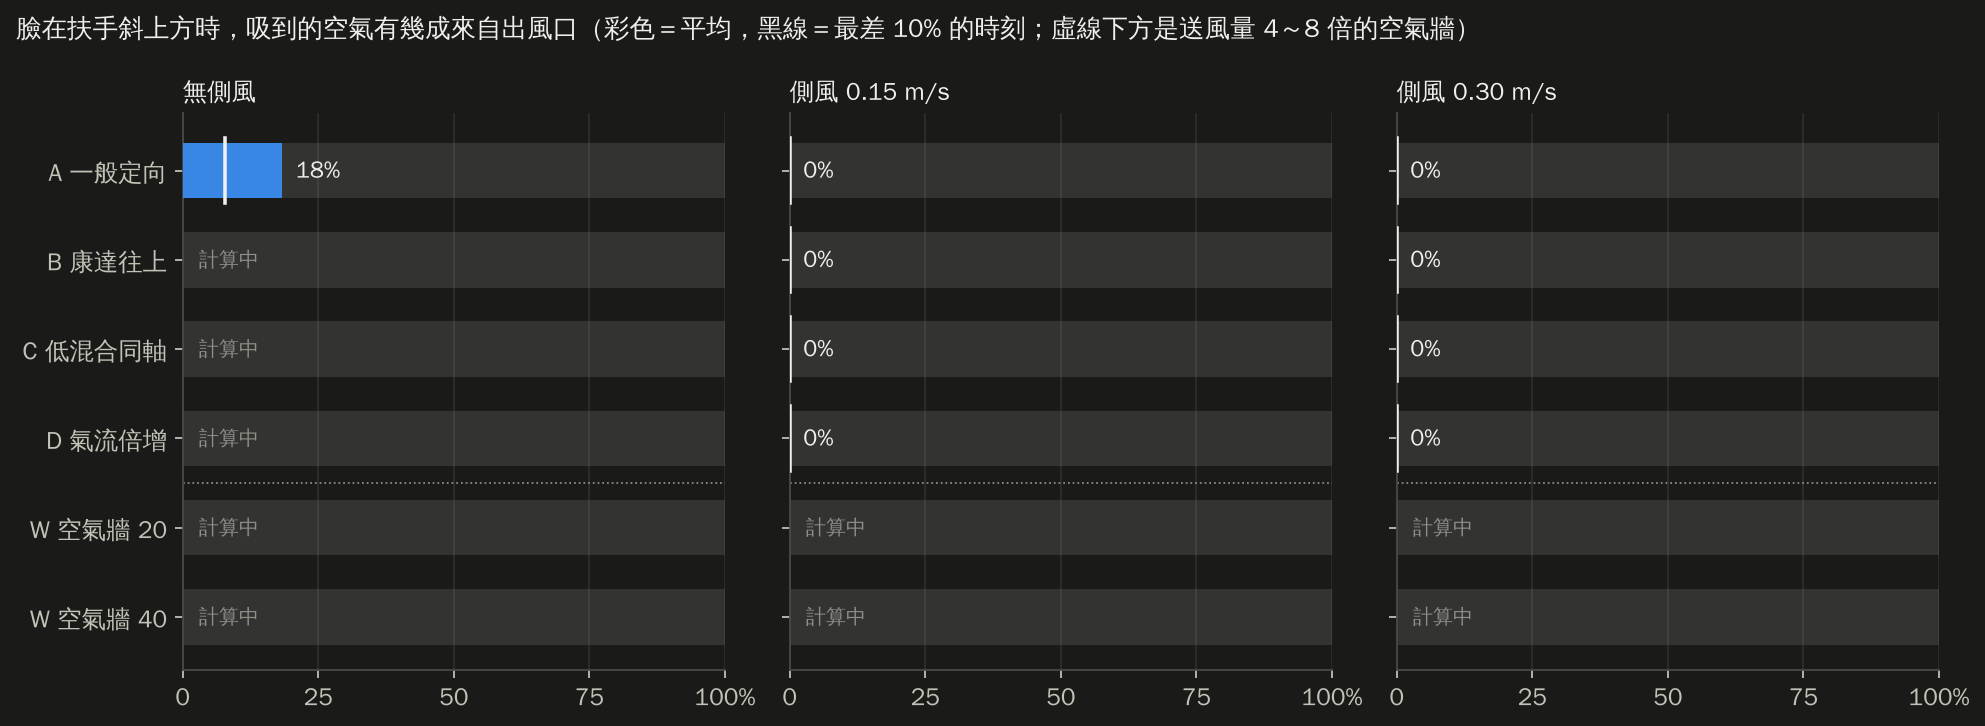
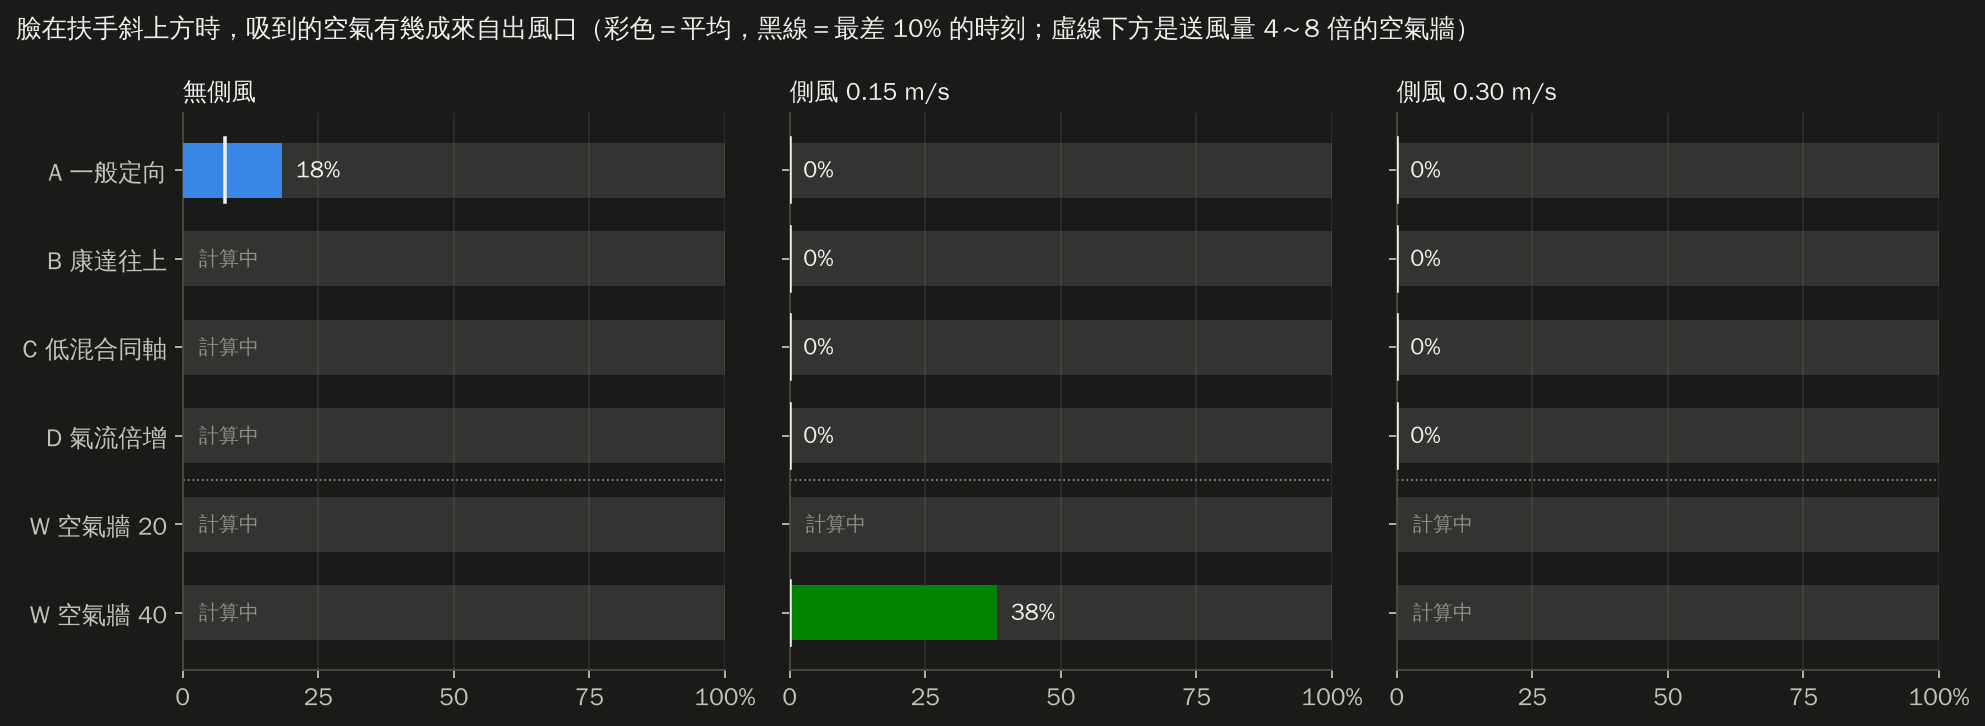
Face-above: first air-wall result (W40, crossflow 0.15: 38%)
Claude-Session: https://claude.ai/code/session_01CLMVR9XzZXdsSKCMSLUbBG

diff --git a/stairwell-airflow-sim/report/index.html b/stairwell-airflow-sim/report/index.html
@@ -173,7 +173,7 @@ footer { margin-top: 48px; padding-top: 20px; border-top: 1px solid var(--line);
   <h1>扶手送風模擬報告</h1>
   <p class="question">一根貫穿整棟樓的扶手，平時能不能流通、淨化空氣？火災時能幫逃生者做到什麼？用電腦模擬一項一項檢查。</p>
   <div class="meta"><span>日期 <b>2026-10-19</b></span><span>專案 <b>長庚大學工業設計學系 林煜宸</b></span><span>模擬與撰寫 <b>Claude（AI）</b></span></div>
-  <div class="progress" role="status"><p>臉在斜上方的出風口重算：已完成 9/18 組，整體約 48%，預計台灣時間 <b>23:59</b> 前後完成</p><div class="bar" aria-hidden="true"><span style="width:47.6%"></span></div><div class="chips"><span class="chip chip-run"><b>B 康達往上</b>・無側風　9%</span><span class="chip chip-done"><b>B 康達往上</b>・側風 0.15　完成</span><span class="chip chip-done"><b>B 康達往上</b>・側風 0.30　完成</span><span class="chip chip-done"><b>A 一般</b>・側風 0.30　完成</span><span class="chip chip-done"><b>C 低混合</b>・側風 0.30　完成</span><span class="chip chip-done"><b>D 倍增</b>・側風 0.30　完成</span><span class="chip chip-done"><b>A 一般</b>・無側風　完成</span><span class="chip chip-done"><b>A 一般</b>・側風 0.15　完成</span><span class="chip chip-wait"><b>D 倍增</b>・無側風　排隊中</span><span class="chip chip-done"><b>D 倍增</b>・側風 0.15　完成</span><span class="chip chip-done"><b>C 低混合</b>・側風 0.15　完成</span><span class="chip chip-wait"><b>C 低混合</b>・無側風　排隊中</span><span class="chip chip-run"><b>W 空氣牆 40</b>・側風 0.15　54%</span><span class="chip chip-run"><b>W 空氣牆 20</b>・側風 0.15　8%</span><span class="chip chip-run"><b>W 空氣牆 40</b>・側風 0.30　0%</span><span class="chip chip-wait"><b>W 空氣牆 20</b>・側風 0.30　排隊中</span><span class="chip chip-wait"><b>W 空氣牆 40</b>・無側風　排隊中</span><span class="chip chip-wait"><b>W 空氣牆 20</b>・無側風　排隊中</span></div><p class="muted small">進度在每次更新報告時重新計算（最後更新：台灣時間 10/19 22:53）。</p></div>
+  <div class="progress" role="status"><p>臉在斜上方的出風口重算：已完成 10/18 組，整體約 55%，預計台灣時間 <b>23:58</b> 前後完成</p><div class="bar" aria-hidden="true"><span style="width:54.6%"></span></div><div class="chips"><span class="chip chip-run"><b>B 康達往上</b>・無側風　21%</span><span class="chip chip-done"><b>B 康達往上</b>・側風 0.15　完成</span><span class="chip chip-done"><b>B 康達往上</b>・側風 0.30　完成</span><span class="chip chip-done"><b>A 一般</b>・側風 0.30　完成</span><span class="chip chip-done"><b>C 低混合</b>・側風 0.30　完成</span><span class="chip chip-done"><b>D 倍增</b>・側風 0.30　完成</span><span class="chip chip-done"><b>A 一般</b>・無側風　完成</span><span class="chip chip-done"><b>A 一般</b>・側風 0.15　完成</span><span class="chip chip-run"><b>D 倍增</b>・無側風　0%</span><span class="chip chip-done"><b>D 倍增</b>・側風 0.15　完成</span><span class="chip chip-done"><b>C 低混合</b>・側風 0.15　完成</span><span class="chip chip-wait"><b>C 低混合</b>・無側風　排隊中</span><span class="chip chip-done"><b>W 空氣牆 40</b>・側風 0.15　完成</span><span class="chip chip-run"><b>W 空氣牆 20</b>・側風 0.15　72%</span><span class="chip chip-run"><b>W 空氣牆 40</b>・側風 0.30　32%</span><span class="chip chip-wait"><b>W 空氣牆 20</b>・側風 0.30　排隊中</span><span class="chip chip-wait"><b>W 空氣牆 40</b>・無側風　排隊中</span><span class="chip chip-wait"><b>W 空氣牆 20</b>・無側風　排隊中</span></div><p class="muted small">進度在每次更新報告時重新計算（最後更新：台灣時間 10/19 23:01）。</p></div>
 </header>
 <nav class="toc" aria-label="章節">
   <a href="#summary">一頁看懂</a><a href="#method">怎麼測的</a><a href="#daily">平時：新風帶</a><a href="#fire">火災：守護路線</a>
@@ -445,21 +445,21 @@ footer { margin-top: 48px; padding-top: 20px; border-top: 1px solid var(--line);
 
 <section id="nozzle">
   <h2><span class="no">04</span>四種出風口比一比（臉在扶手斜上方）</h2>
-  <p class="oneliner">臉在扶手斜上方時（已完成 9/18 組），目前口鼻乾淨空氣最高的是 A 一般定向（無側風）：18%。</p>
+  <p class="oneliner">臉在扶手斜上方時（已完成 10/18 組），目前口鼻乾淨空氣最高的是 W 空氣牆 40 L/s/m（側風 0.15）：38%。</p>
   <figure class="fig render"><img class="img-any" src="assets/render_nozzles.webp" alt="四種扶手側面出風口形式比較" loading="lazy"><figcaption>四種出風口的造型構想（設計渲染圖）。圖中文字是設計構想，實際結果以下方模擬為準。</figcaption></figure>
   <figure class="fig"><img class="img-light" src="assets/s2f_saf_bars.png" alt="臉在斜上方時四種出風口的乾淨空氣比例" loading="lazy"><img class="img-dark" src="assets/s2f_saf_bars_dark.png" alt="臉在斜上方時四種出風口的乾淨空氣比例" loading="lazy"><figcaption>每條橫條代表 100% 的吸入空氣，彩色部分是來自出風口的乾淨空氣。黑色短線是最差 10% 的時刻。</figcaption></figure>
   <div class="points prose">
 <p><b>為什麼重算：</b>人扶著內側扶手下樓時，臉在扶手的<b>斜上方</b>，不是正前方。這組把口鼻放在出風口往樓梯側 28 cm、往上 35 cm（距離約 45 cm、仰角約 51°）；A、C、D 出風口改成朝向口鼻，B 改用藏在底面、往上轉的康達出風口。每公尺送風量都是 5 L/s，網格 1.5 mm。<span class="tag tag-sim">模擬結果</span></p>
-<div class="table-wrap"><table><thead><tr><th scope="col">出風口</th><th scope="col">無側風</th><th scope="col">側風 0.15</th><th scope="col">側風 0.30</th></tr></thead><tbody><tr><th scope="row">A 一般定向</th><td class="num">18%</td><td class="num">0%</td><td class="num">0%</td></tr><tr><th scope="row">B 康達往上</th><td class="num">計算中</td><td class="num">0%</td><td class="num">0%</td></tr><tr><th scope="row">C 低混合同軸</th><td class="num">計算中</td><td class="num">0%</td><td class="num">0%</td></tr><tr><th scope="row">D 氣流倍增</th><td class="num">計算中</td><td class="num">0%</td><td class="num">0%</td></tr><tr><th scope="row">W 空氣牆 20 L/s/m</th><td class="num">計算中</td><td class="num">計算中</td><td class="num">計算中</td></tr><tr><th scope="row">W 空氣牆 40 L/s/m</th><td class="num">計算中</td><td class="num">計算中</td><td class="num">計算中</td></tr></tbody></table></div>
+<div class="table-wrap"><table><thead><tr><th scope="col">出風口</th><th scope="col">無側風</th><th scope="col">側風 0.15</th><th scope="col">側風 0.30</th></tr></thead><tbody><tr><th scope="row">A 一般定向</th><td class="num">18%</td><td class="num">0%</td><td class="num">0%</td></tr><tr><th scope="row">B 康達往上</th><td class="num">計算中</td><td class="num">0%</td><td class="num">0%</td></tr><tr><th scope="row">C 低混合同軸</th><td class="num">計算中</td><td class="num">0%</td><td class="num">0%</td></tr><tr><th scope="row">D 氣流倍增</th><td class="num">計算中</td><td class="num">0%</td><td class="num">0%</td></tr><tr><th scope="row">W 空氣牆 20 L/s/m</th><td class="num">計算中</td><td class="num">計算中</td><td class="num">計算中</td></tr><tr><th scope="row">W 空氣牆 40 L/s/m</th><td class="num">計算中</td><td class="num">38%</td><td class="num">計算中</td></tr></tbody></table></div>
 <p><b>目前看到的現象（8 組有側風的結果）：</b>有側風時，出風口吹出的乾淨空氣一離開扶手，就被由下往上的氣流帶著<b>貼著扶手正上方往上走</b>，到不了往樓梯側 28 cm 外的臉，口鼻都是 0%。B 康達往上確實有沿圓角轉向上（下面的圖看得到深藍色貼著導風腔轉彎），但轉上去之後一樣直直往上，沒有往臉的方向偏。<span class="tag tag-sim">模擬結果</span></p>
 <p><b>加算空氣牆：</b>先算完的幾組顯示，每公尺 5 L/s 的出風口在有側風時送不到斜上方的臉。所以把第 05 章表現最好的空氣牆（寬 80 mm、每公尺 20 或 40 L/s、水平往樓梯側吹）也放進同一個「臉在斜上方＋有頭」的測試，共 6 組，表格最後兩列。<span class="tag tag-sim">模擬結果</span></p>
 <p><b>無側風要算久一點：</b>沒有側風時氣流很慢，乾淨空氣要好幾秒才飄到臉旁。先算的 10 秒版本裡，B、C、D 的口鼻數值還在一路往上爬（B 從 0% 爬到 12%、C 從 15% 爬到 46%、D 從 0% 爬到 36%），代表還沒穩定，所以無側風的 B、C、D 和空氣牆延長到 24 秒重算，取後 16 秒平均。A 的 10 秒版本前後半段差不多（19%／18%），已經穩定。<span class="tag tag-sim">模擬結果</span></p>
-<p class="muted">已完成 9/18 組，其餘計算中；每完成一批就會更新。</p></div>
+<p class="muted">已完成 10/18 組，其餘計算中；每完成一批就會更新。</p></div>
   <figure class="fig"><img class="img-light" src="assets/s2f_vc00_fields.png" alt="臉在斜上方、無側風" loading="lazy"><img class="img-dark" src="assets/s2f_vc00_fields_dark.png" alt="臉在斜上方、無側風" loading="lazy"><figcaption>無側風：紅圈是口鼻位置，顏色越深代表出風口的空氣越多。</figcaption></figure>
   <figure class="fig"><img class="img-light" src="assets/s2f_vc15_fields.png" alt="臉在斜上方、側風 0.15 m/s" loading="lazy"><img class="img-dark" src="assets/s2f_vc15_fields_dark.png" alt="臉在斜上方、側風 0.15 m/s" loading="lazy"><figcaption>側風 0.15 m/s（由下往上）。</figcaption></figure>
   <figure class="fig"><video src="assets/s2f_vc15.mp4" controls muted loop playsinline preload="metadata"></video><figcaption>動畫（臉在斜上方、側風 0.15 m/s）。每格 0.08 秒。</figcaption></figure>
   <figure class="fig"><img class="img-light" src="assets/s2f_vc30_fields.png" alt="臉在斜上方、側風 0.30 m/s" loading="lazy"><img class="img-dark" src="assets/s2f_vc30_fields_dark.png" alt="臉在斜上方、側風 0.30 m/s" loading="lazy"><figcaption>側風 0.30 m/s。</figcaption></figure>
-  <figure class="fig"><div class="pending-box">計算中：空氣牆放進臉在斜上方的測試</div><figcaption>第 05 章的空氣牆（寬 80 mm、水平往樓梯側吹）放進同樣的頭部與口鼻位置。上排每公尺 20 L/s，下排 40 L/s；左到右是無側風、側風 0.15、側風 0.30。</figcaption></figure>
+  <figure class="fig"><img class="img-light" src="assets/s2f_wall_fields.png" alt="空氣牆放進臉在斜上方的測試" loading="lazy"><img class="img-dark" src="assets/s2f_wall_fields_dark.png" alt="空氣牆放進臉在斜上方的測試" loading="lazy"><figcaption>第 05 章的空氣牆（寬 80 mm、水平往樓梯側吹）放進同樣的頭部與口鼻位置。上排每公尺 20 L/s，下排 40 L/s；左到右是無側風、側風 0.15、側風 0.30。</figcaption></figure>
   <details class="more"><summary>展開早期設定：臉在出風口正前方 35 cm（舊版 S2）</summary><div class="more-body"><p class="prose">早期把臉放在出風口正前方、同一高度（蹲低的姿勢）。這組結果保留作為對照：低混合同軸在無側風時 91%，但只要有 0.15 m/s 側風，四種都是 0%。</p><figure class="fig"><img class="img-light" src="assets/s2_saf_bars.png" alt="早期設定的乾淨空氣比例" loading="lazy"><img class="img-dark" src="assets/s2_saf_bars_dark.png" alt="早期設定的乾淨空氣比例" loading="lazy"><figcaption>早期設定（臉在正前方 35 cm）。</figcaption></figure><figure class="fig"><img class="img-light" src="assets/s2_head_vc00_fields.png" alt="早期設定、無側風" loading="lazy"><img class="img-dark" src="assets/s2_head_vc00_fields_dark.png" alt="早期設定、無側風" loading="lazy"><figcaption>早期設定、無側風。</figcaption></figure><figure class="fig"><img class="img-light" src="assets/s2_head_vc15_fields.png" alt="早期設定、側風 0.15" loading="lazy"><img class="img-dark" src="assets/s2_head_vc15_fields_dark.png" alt="早期設定、側風 0.15" loading="lazy"><figcaption>早期設定、側風 0.15 m/s：送出的空氣被吹到扶手上方。</figcaption></figure><figure class="fig"><video src="assets/s2_head_vc15.mp4" controls muted loop playsinline preload="metadata"></video><figcaption>早期設定動畫（側風 0.15 m/s）。</figcaption></figure><div class="points prose">
 <ul>
 <li><b>低混合率同軸（C）最準：</b>寬出口、慢風速、外圈再加一圈更慢的風「護送」，送到臉前時幾乎沒有混到周圍空氣（91%，最差時刻也有 90%）。<span class="tag tag-sim">模擬結果</span></li>

diff --git a/stairwell-airflow-sim/analysis/s2f_post.py b/stairwell-airflow-sim/analysis/s2f_post.py
@@ -102,14 +102,14 @@ def wall_panel(loaded):
     """第 05 章的空氣牆，放進「臉在斜上方＋有頭」的同一個測試：2 種送風量 × 3 種側風。"""
     if not any(k.split("_")[0] in WALLS for k in loaded):
         return
-    fig, axs = plt.subplots(2, 3, figsize=(11, 8.6), sharex=True, sharey=True)
+    fig, axs = plt.subplots(2, 3, figsize=(11, 7.3), sharex=True, sharey=True)
     im = None
     any_m = next(v["meta"] for k, v in loaded.items() if k.split("_")[0] in WALLS)
     for i, w in enumerate(WALLS):
         for j, (c, lbl) in enumerate(CONDS):
             ax = axs[i, j]
             ax.grid(False)
-            ax.set_title(f"{LABEL[w].split('（')[0]}・{lbl}", loc="left", fontsize=10)
+            ax.set_title(f"空氣牆 {w[1:]} L/s/m・{lbl}", loc="left", fontsize=10)
             r = loaded.get(f"{w}_{c}")
             if r is None:
                 ax.text(0.5, 0.5, "（計算中）", transform=ax.transAxes, ha="center", color=MUTED)
@@ -122,7 +122,7 @@ def wall_panel(loaded):
     for ax in axs[-1]:
         ax.set_xlabel("cm")
     if im is not None:
-        fig.colorbar(im, ax=axs, shrink=0.7, pad=0.02).set_label("乾淨空氣比例")
+        fig.colorbar(im, ax=axs, shrink=0.7, pad=0.04).set_label("乾淨空氣比例")
     fig.suptitle("第 05 章的空氣牆，放進同樣的「臉在斜上方＋有頭」測試", x=0.01, y=0.99, ha="left", fontsize=12)
     save(fig, "s2f_wall_fields.png")
 
